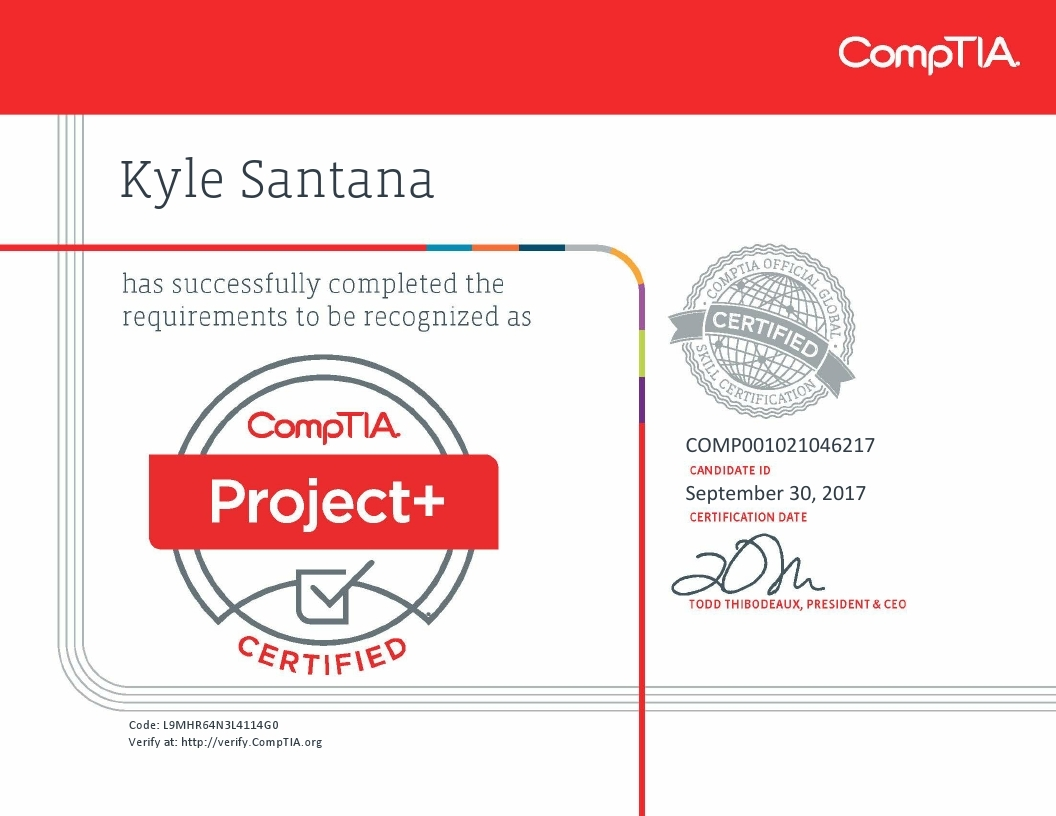
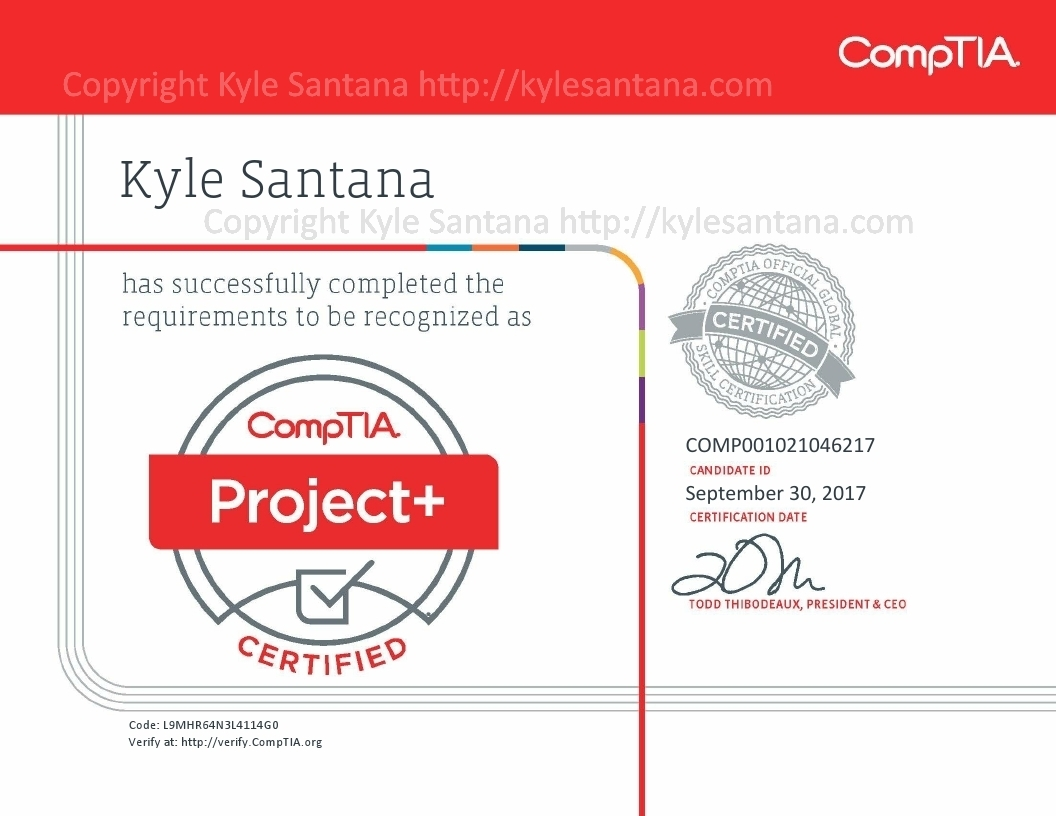
Placed a watermark on certificate images

Changed region(s): [[0.1875, 0.2451, 0.875, 0.3064], [0.0625, 0.0919, 0.75, 0.1225]]

diff --git a/index.html b/index.html
@@ -274,7 +274,7 @@
                 <i class="fas fa-plus fa-3x"></i>
               </div>
             </div>
-            <img class="img-fluid" src="img/dsportfolio/Red_Wine_thumb.png" alt="">
+            <img class="img-fluid" src="img/dsportfolio/Red_Wine_thumb.png" alt="View of red wine glass overlooking a field">
           </a>
           <div class="dsportfolio-caption">
             <h4>Red Wine Analysis</h4>
@@ -356,48 +356,47 @@
             <h2 class="section-heading text-uppercase">Certifications</h2>
             <hr class="my-4">
           </div>
+          
           <div class="col-lg-4 text-center">
-            <a href="https://drive.google.com/file/d/1baYvpI_7lb_Y_xGqyb54cUQlm2E8iSa6/view?usp=sharing" target="_blank">
+            <a href="img/certifications/CompTIA_Security_+_ce_certificate.jpg" alt="CompTIA Security+" target="_blank">
               <img class="rounded-circle img-fluid sr-icons" src="img/badges/CompTIA_Security.png" alt="CompTIA Security+">
-              <!-- <img class="cert-logo" src="https://www.alpinesecurity.com/s/securityplus-logo.jpg" alt="CompTIA Security+" /> -->
+            <h4 class="text-muted"><u>CompTIA Security+</u></h4>
             </a>
-            <h4 class="text-muted">CompTIA Security+</h4>
-          </div>
-          <div class="col-lg-4 text-center">
-            <a href="https://drive.google.com/file/d/1ELBJT3XdvGnrRSRoCRdHFPNOGi9bjCOa/view?usp=sharing" target="_blank">
-              <!-- <img class="cert-logo" src="http://www.clovis.edu/cis/images/CompTIA_Network_logo.png" alt="CompTIA Network+" /> -->
-              <img class="rounded-circle img-fluid sr-icons" src="img/badges/CompTIA_Network.png" alt="CompTIA Network+">
-            </a>
-            <h4 class="text-muted">CompTIA Network+</h4>
-          </div>
-          <div class="col-lg-4 text-center">
-            <a href="https://drive.google.com/file/d/1PpGO9lQJa2BIIMilcbJn5K9jTgs6QdWd/view?usp=sharing" target="_blank">
-              <!-- <img class="cert-logo" src="http://www.premier-ks.com/wp-content/uploads/A_plus.jpg" alt="CompTIA A+" /> -->
-              <img class="rounded-circle img-fluid sr-icons" src="img/badges/CompTIA_A2.png" alt="CompTIA A+">
-            </a>
-            <h4 class="text-muted">CompTIA A+</h4>
-          </div>
-          <div class="col-lg-4 text-center">
-            <a href="https://drive.google.com/file/d/1Opn_x1ndPfmFbZaiYyEEj6cLzS8QS6x7/view?usp=sharing" target="_blank">
-              <!-- <img class="cert-logo" src="http://blog.capacityacademy.com/wp-content/uploads/2015/11/Projectplus.png" alt="CompTIA Project+" /> -->
-              <img class="rounded-circle img-fluid sr-icons" src="img/badges/CompTIA_Project.png" alt="CompTIA Project+">
-            </a>
-            <h4 class="text-muted">CompTIA Project+</h4>
           </div>
 
           <div class="col-lg-4 text-center">
-            <a href="https://drive.google.com/file/d/1XFPOS7iyaavN0MsuCkmWvyCUBLzjtAuo/view?usp=sharing" target="_blank">
-              <!-- <img class="cert-logo" src="http://getcertifiedgetahead-1165.kxcdn.com/wp-content/uploads/2017/12/Cybersecurity-CompTIA-Secure-Infrastructure-Specialist-CSIS-logo.jpg" alt="CompTIA Secure Infrastructure Specialist" /> -->
-              <img class="rounded-circle img-fluid sr-icons" src="img/badges/CompTIA_CSIS.png" alt="Secure Infrastructure Specialist">
+            <a href="img/certifications/CompTIA_Network+_ce_certificate.jpg" alt="CompTIA Network+" target="_blank">
+              <img class="rounded-circle img-fluid sr-icons" src="img/badges/CompTIA_Network.png" alt="CompTIA Network+">
+            <h4 class="text-muted"><u>CompTIA Network+</u></h4>
             </a>
-            <h4 class="text-muted">CompTIA Secure Infrastructure Specialist</h4>
           </div>
+
           <div class="col-lg-4 text-center">
-            <a href="https://drive.google.com/file/d/1CK-uXx3gBRs5N7E6qsEtG1cI31KWHd3_/view?usp=sharing" target="_blank">
-              <!-- <img class="cert-logo" src="https://upload.wikimedia.org/wikipedia/commons/3/3b/Udacity_logo.png" alt="udacity nanodegree" /> -->
-              <img class="rounded-circle img-fluid sr-icons" src="img/badges/Udacity_logo.png" alt="udacity nanodegree">
+            <a href="img/certifications/CompTIA_A+_ce_certificate.jpg" alt="CompTIA A+ Certficate" target="_blank">
+              <img class="rounded-circle img-fluid sr-icons" src="img/badges/CompTIA_A2.png" alt="CompTIA A+">
+            <h4 class="text-muted"><u>CompTIA A+</u></h4>
             </a>
-            <h4 class="text-muted">Udacity Data Analyst Nanodegree</h4>
+          </div>
+
+          <div class="col-lg-4 text-center">
+            <a href="img/certifications/CompTIA_Project+_certificate.jpg" alt="CompTIA Project+" target="_blank">
+              <img class="rounded-circle img-fluid sr-icons" src="img/badges/CompTIA_Project.png" alt="CompTIA Project+">
+            <h4 class="text-muted"><u>CompTIA Project+</u></h4>
+            </a>
+          </div>
+
+          <div class="col-lg-4 text-center">
+            <a href="img/certifications/CompTIA_Secure_Infrastructure_Specialist.jpg" alt="Secure Infrastructure Specialist" target="_blank">
+              <img class="rounded-circle img-fluid sr-icons" src="img/badges/CompTIA_CSIS.png" alt="Secure Infrastructure Specialist">
+            <h4 class="text-muted"><u>CompTIA Secure Infrastructure Specialist</u></h4>
+            </a>
+          </div>
+
+          <div class="col-lg-4 text-center">
+            <a href="img/certifications/Udacity_Nanodegree.jpg" alt="Udacity Data Analyst Nanodegree Certificate" target="_blank">
+              <img class="rounded-circle img-fluid sr-icons" src="img/badges/Udacity_logo.png" alt="Udacity Data Analyst Nanodegree Certificate">
+            <h4 class="text-muted"><u>Udacity Data Analyst Nanodegree</u></h4>
+            </a>
           </div>
         </div>
       </div>
@@ -405,7 +404,7 @@
 
   
 
-  <!-- Languages -->
+  <!-- Programming Languages -->
   <!-- <section class="py-5">
     <div class="container">
       <div class="row">
@@ -558,7 +557,7 @@
                 <!-- Project Details Go Here -->
                 <h2 class="text-uppercase">Activity Planner</h2>
                 <p class="item-intro text-muted">C# using ASP.NET Core</p>
-                <img class="img-fluid d-block mx-auto" src="img/sdportfolio/Activity_Center.png" alt="Screen shot of Activity Center App">
+                <img class="img-fluid d-block mx-auto rounded" src="img/sdportfolio/Activity_Center.png" alt="Screen shot of Activity Center App">
                 <p>An activity planner in which registered users may plan fun activities and join 
                 other user-created activities.  Features login and password validations, Bcrypt 
                 password hashing, Session, and one-to-many and many-to-many schema relationships.</p>
@@ -594,7 +593,7 @@
                 <!-- Project Details Go Here -->
                 <h2 class="text-uppercase">Pet Shelter</h2>
                 <p class="item-intro text-muted">React, Mongo, Nodejs, Express, Hosted on EC2</p>
-                <img class="img-fluid d-block mx-auto" src="img/sdportfolio/Pet_Shelter.png" alt="Screen shot of Pet Shelter App">
+                <img class="img-fluid d-block mx-auto rounded" src="img/sdportfolio/Pet_Shelter.png" alt="Screen shot of Pet Shelter App">
                 <p>Full-stack web development, where you can upload a picture of pet’s profile with CRUD functions using NoSQL
                   database MongoDB with RESTful-API </p>
                 <ul class="list-inline">
@@ -629,7 +628,7 @@
                 <!-- Project Details Go Here -->
                 <h2 class="text-uppercase">Travel Buddy</h2>
                 <p class="item-intro text-muted">Python using Django MVC Framework.</p>
-                <img class="img-fluid d-block mx-auto" src="img/sdportfolio/Travel_Buddy.jpg" 
+                <img class="img-fluid d-block mx-auto rounded" src="img/sdportfolio/Travel_Buddy.jpg" 
                   alt="Screenshot of an airplane wing">
                 <p>A travel organizer allowing registered users to coordinate travel plans and join travel 
                 itineraries created by others.  Featuring login validations, Bcrypt password hashing, Session, 
@@ -666,7 +665,7 @@
                 <!-- Project Details Go Here -->
                 <h2 class="text-uppercase">Django File Structure Creation App</h2>
                 <p class="item-intro text-muted">Automated Directory Structure Creator</p>
-                <img class="img-fluid d-block mx-auto" src="img/sdportfolio/Django_File_Creation.png" 
+                <img class="img-fluid d-block mx-auto rounded" src="img/sdportfolio/Django_File_Creation.png" 
                   alt="Screenshot of the pythong code for the Django file structure creator.">
                 <p> App that was created to automate and simplify steps needed to create a Django app. 
                 This originally started as a batch script and evolved into a python app.</p>
@@ -703,7 +702,7 @@
                 <!-- Project Details Go Here -->
                 <h2 class="text-uppercase">Task List</h2>
                 <p class="item-intro text-muted">Task list tracker app written in React.</p>
-                <img class="img-fluid d-block mx-auto" src="img/sdportfolio/Task_List.png" 
+                <img class="img-fluid d-block mx-auto rounded" src="img/sdportfolio/Task_List.png" 
                   alt="Clipboard with a task list attached">
                 <p>This is a simple Task List app that allows the user to add, remove and tick items on a list.
                   The list provides four methods, add, remove, check and uncheck objects of the list.</p>
@@ -740,7 +739,7 @@
                 <!-- Project Details Go Here -->
                 <h2 class="text-uppercase">Python/ Tesseract Receipt Parser</h2>
                 <p class="item-intro text-muted">Receipt parser written in Python</p>
-                <img class="img-fluid d-block mx-auto" src="img/sdportfolio/Receipt_Parser_thumb.png" 
+                <img class="img-fluid d-block mx-auto rounded" src="img/sdportfolio/Receipt_Parser_thumb.png" 
                   alt="A receipt in middle of various objects">
                 <p>Receipt parser written in Python that allowed a user to upload a picture of a receipt.  
                 The receipt image would then be sent to Tesseract to perform OCR.  The resulting text is 
@@ -778,7 +777,7 @@
                 <!-- Project Details Go Here -->
                 <h2 class="text-uppercase">We Rate Dogs</h2>
                 <p class="item-intro text-muted">Python, </p>
-                <img class="img-fluid d-block mx-auto" src="img/dsportfolio/We_Rate_Dogs.jpg" alt="A dog next to a book">
+                <img class="img-fluid d-block mx-auto rounded" src="img/dsportfolio/We_Rate_Dogs.jpg" alt="A dog next to a book">
                 <p>
                   Real world data is rarely ready for immediate use.  Usually it must be cleaned before 
                   any useful information can be extracted. This project involved data wrangling, analyzing, 
@@ -836,7 +835,7 @@
                 <!-- Project Details Go Here -->
                 <h2 class="text-uppercase">Red Wine Analysis</h2>
                 <p class="item-intro text-muted">Understanding the Variables that Effect Quality of Red Wine</p>
-                <img class="img-fluid d-block mx-auto" src="img/dsportfolio/Redwine_Analysis.jpg" 
+                <img class="img-fluid d-block mx-auto rounded" src="img/dsportfolio/Redwine_Analysis.jpg" 
                   alt="Red Wine in a glass overlooking a field">
                 <p>This project investigated how variables of red wine like alcohol %, chlorides, sulphates 
                 content etc affects the quality of Red Wine. 
@@ -877,7 +876,7 @@
                 <!-- Project Details Go Here -->
                 <h2 class="text-uppercase">Titanic Survivor Analysis</h2>
                 <p class="item-intro text-muted">Visualization of Passenger Survival by Class, Age, and Gender</p>
-                <img class="img-fluid d-block mx-auto" src="img/dsportfolio/Titanic.jpg" alt="Illustrated picture of the Titanic">
+                <img class="img-fluid d-block mx-auto rounded" src="img/dsportfolio/Titanic.jpg" alt="Illustrated picture of the Titanic">
                 <p>
                   This project used the Titanic Survival dataset from Kaggle to produce a series of 
                   visualization on Tableau. The dataset contained the demographic and passenger 
@@ -920,7 +919,7 @@
                 <!-- Project Details Go Here -->
                 <h2 class="text-uppercase">Dr. Jekyll vs Mr. Hyde</h2>
                 <p class="item-intro text-muted">Comparision of Name Count in Dr. Jekyll and Mr. Hyde</p>
-                <img class="img-fluid d-block mx-auto" src="img/dsportfolio/Jekyll_and_Hyde.jpg" alt="Old poster of classic Jekyll and Hyde movie">
+                <img class="img-fluid d-block mx-auto rounded" src="img/dsportfolio/Jekyll_and_Hyde.jpg" alt="Old poster of classic Jekyll and Hyde movie">
                 <p>While watching Thor: Ragnorak I noticed that Hulk received a large portion of screen 
                 time compared to Dr Banner. This made me think about the book Dr. Jekyll and Mr. Hyde of 
                 which the Hulk was inspired from. From there I decided to analyze the word frequency of 
@@ -958,7 +957,7 @@
                 <!-- Project Details Go Here -->
                 <h2 class="text-uppercase">The Stroop Effect</h2>
                 <p class="item-intro text-muted">Testing a Perceptual Phenomenon.</p>
-                <img class="img-fluid d-block mx-auto" src="img/dsportfolio/Stroop_Effect.png" 
+                <img class="img-fluid d-block mx-auto rounded" src="img/dsportfolio/Stroop_Effect.png" 
                   alt="Stroop Effect Example">
                 <p>In a Stroop task, participants are presented with a list of words, with each 
                 word displayed in a color of ink. The participant’s task is to say out loud the 
@@ -1005,8 +1004,8 @@
                 <!-- Project Details Go Here -->
                 <h2 class="text-uppercase">Let's Build a Liquor Store</h2>
                 <p class="item-intro text-muted">Determining Optimal Store Placement</p>
-                <img class="img-fluid d-block mx-auto" src="img/dsportfolio/Liquor_Store.jpg" 
-                  alt="">
+                <img class="img-fluid d-block mx-auto rounded" src="img/dsportfolio/Liquor_Store.jpg" 
+                  alt="Construction man in front of building">
                 <p>This project looked at the publicly available liquor sales data for Iowa. The 
                 goal of the analysis was to determine the optimal location in Iowa in which to 
                 build a new liquor store.</p>
